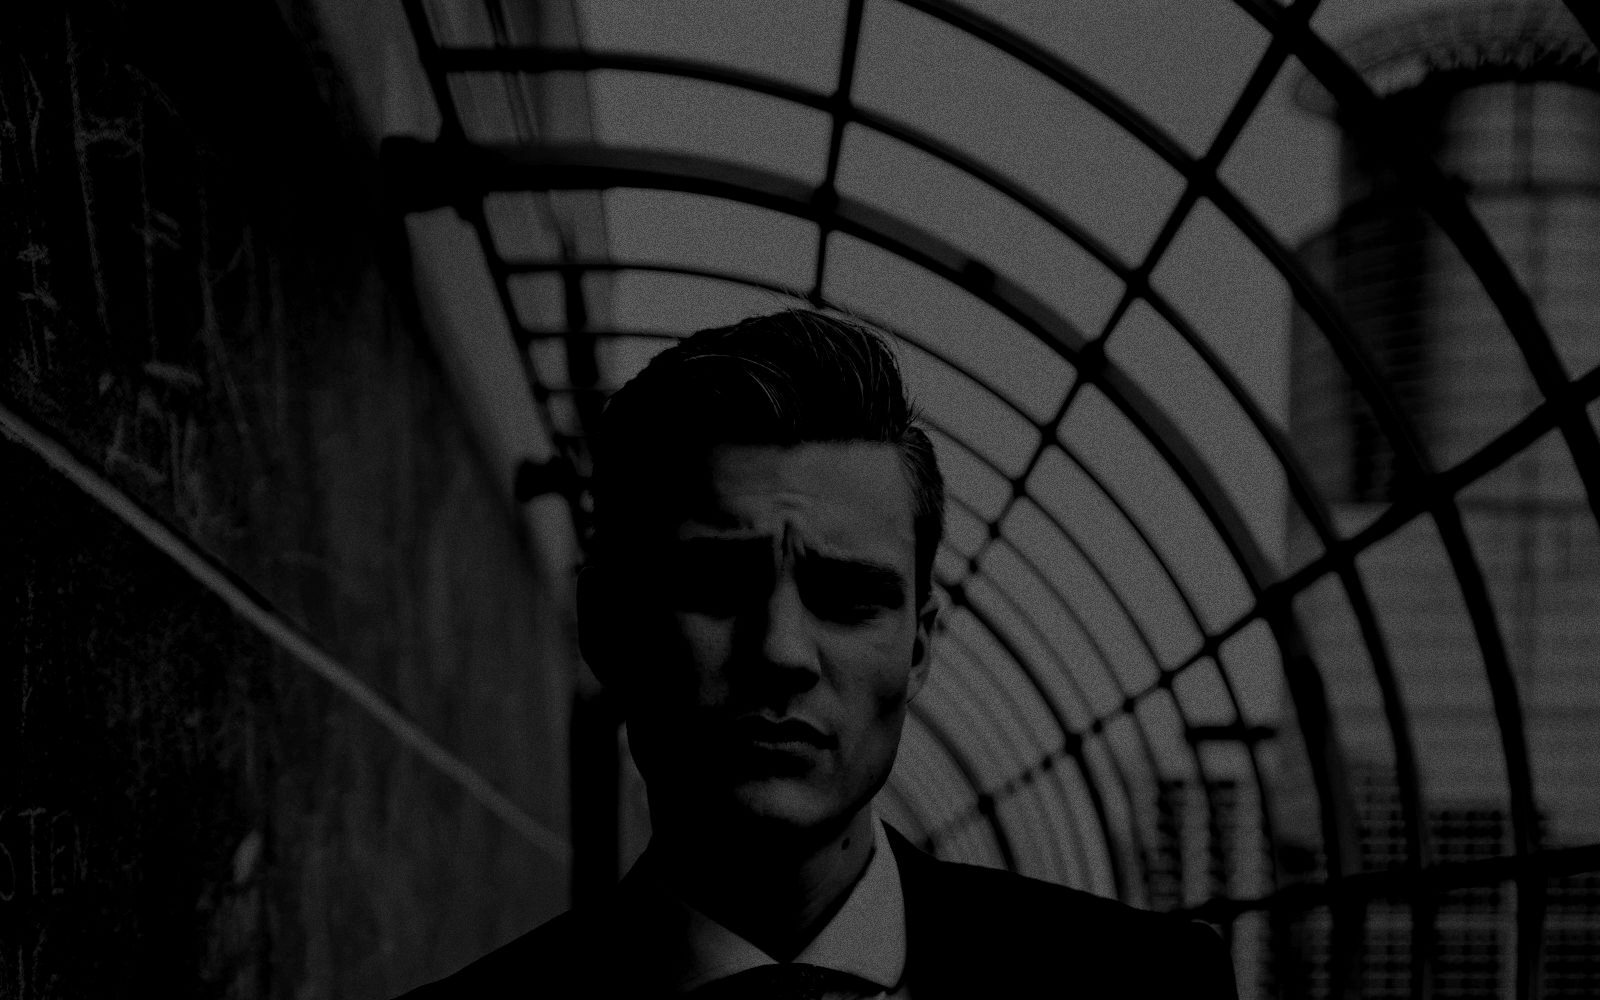
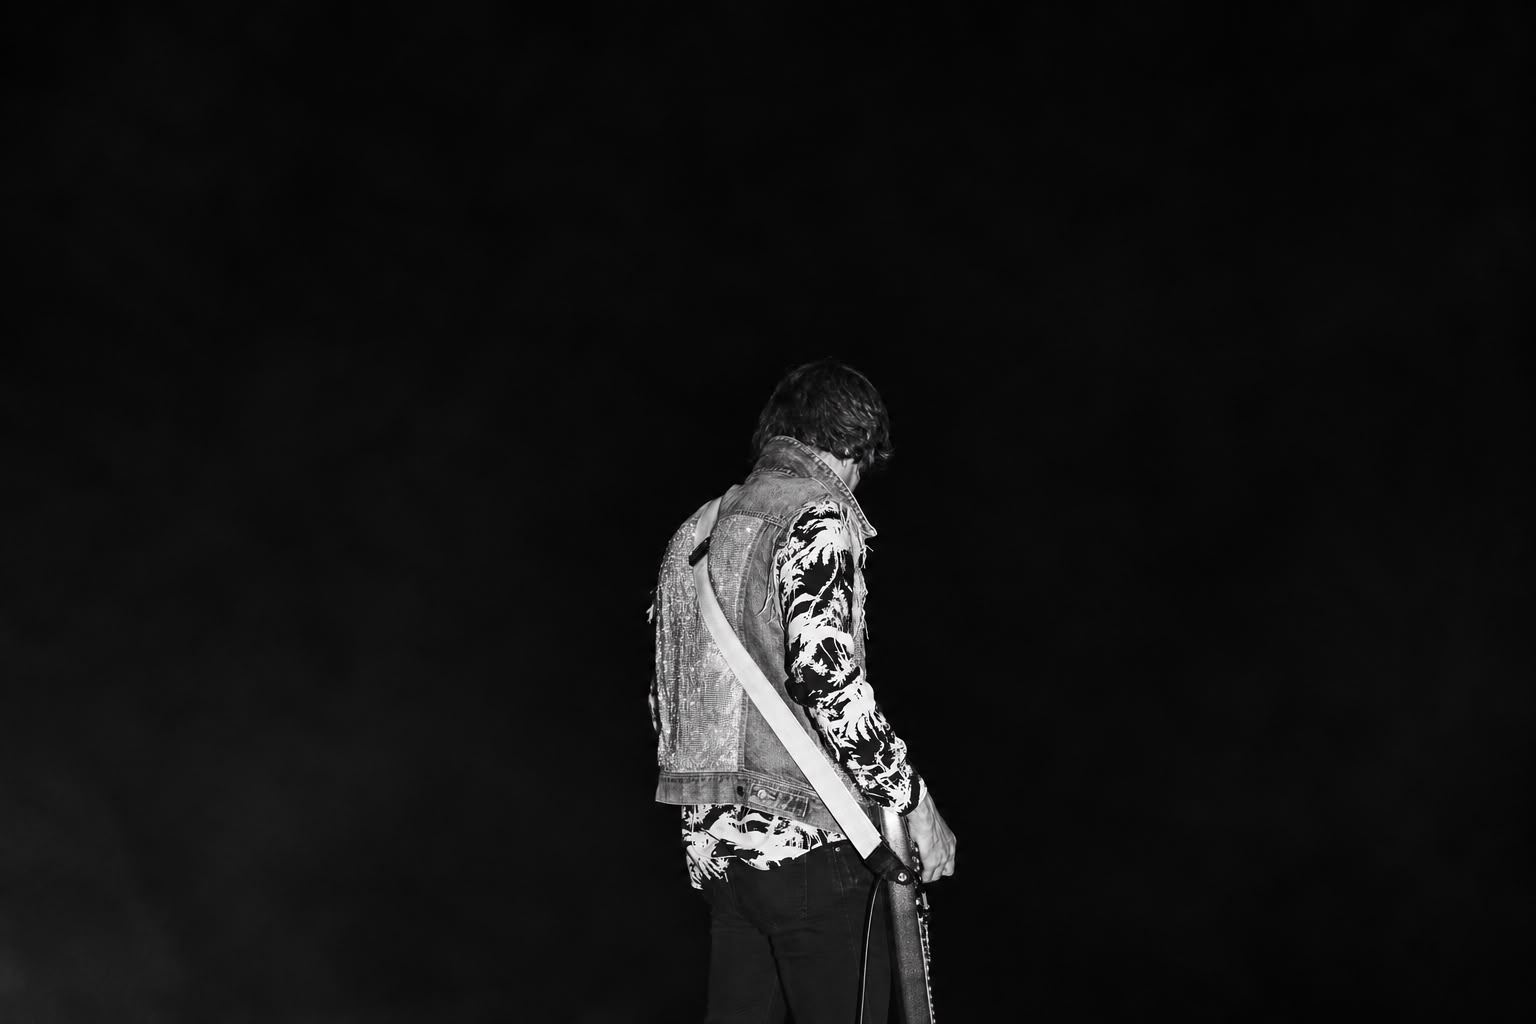
Starting page picture updated

diff --git a/src/app/(splash)/page.tsx b/src/app/(splash)/page.tsx
@@ -10,13 +10,18 @@ import { site } from "@/data/site";
 export default function HomePage() {
   return (
     <div className="relative h-dvh w-full overflow-hidden bg-black">
+      {/* A portrait photograph on a wide screen gets cropped hard by
+          object-cover. Anchoring to the top sounded right but put the head at
+          the centre of the frame and pushed the garment off the bottom — so
+          the crop stays centred, where the clothes are. */}
       <Image
         src={openingShot.src}
         alt={openingShot.alt}
         placeholder="blur"
         priority
+        quality={90}
         sizes="100vw"
-        className="h-full w-full object-cover"
+        className="h-full w-full object-cover object-center"
       />
 
       {/* Scrim. The image is the ground for the type, so it sits well back.

diff --git a/src/data/hero.ts b/src/data/hero.ts
@@ -3,8 +3,13 @@ import hero from "@/images/lookbook/hero.jpg";
 /**
  * The splash image. The only static image left in the project — every product
  * photograph now comes from the database, uploaded through /admin.
+ *
+ * Shoot or choose a PORTRAIT frame (roughly 2:3). The splash fills the whole
+ * viewport, so a landscape image has to be cropped savagely on a phone, where
+ * most people will see it. The crop is anchored to the top of the frame, so
+ * put the garment in the upper two thirds.
  */
 export const openingShot = {
   src: hero,
-  alt: "Backstage flash photograph, a figure in dark tailoring against a blown-out white wall",
+  alt: "Backstage photograph from behind: a crystal-panelled denim jacket with a shredded shoulder, worn over a palm-print shirt, guitar strap across the back",
 } as const;

diff --git a/next.config.ts b/next.config.ts
@@ -7,6 +7,11 @@ const nextConfig: NextConfig = {
     // grain noticeably better than WebP at the same byte weight.
     formats: ["image/avif", "image/webp"],
 
+    // Next 16 defaults qualities to [75] and silently snaps any other value to
+    // the nearest allowed one. The splash photograph fills the viewport, so it
+    // is served at 90 — listed here or the prop would be quietly ignored.
+    qualities: [75, 90],
+
     // Product photographs live in Vercel Blob. next/image refuses to optimise
     // a remote host that is not listed here, so uploads would render broken
     // without this entry.
